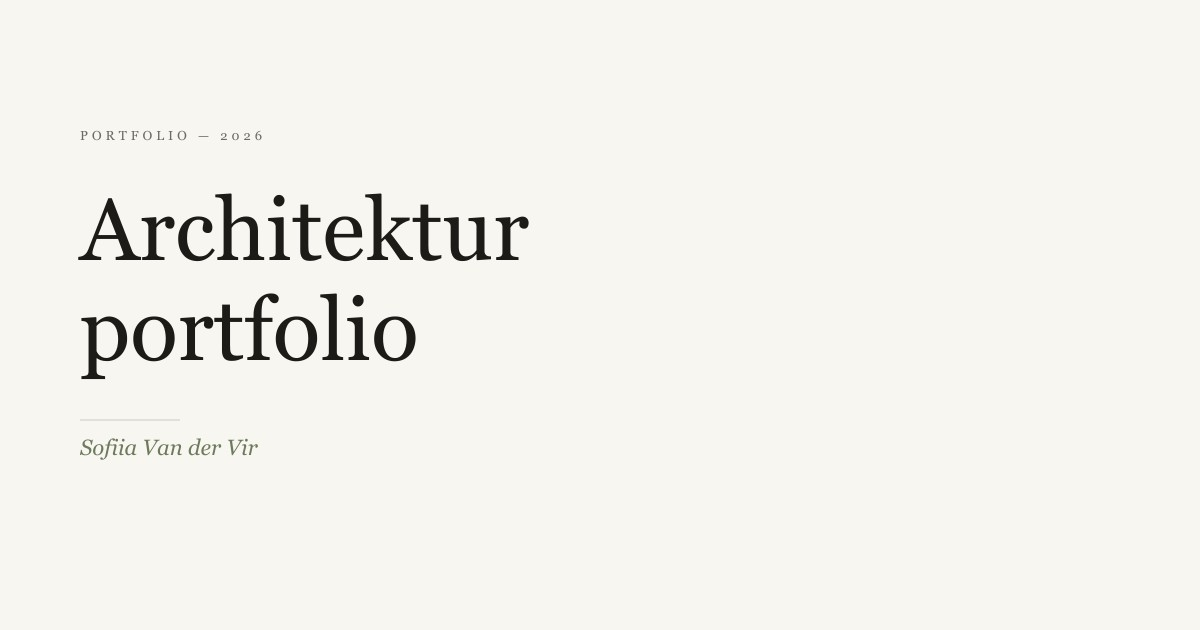
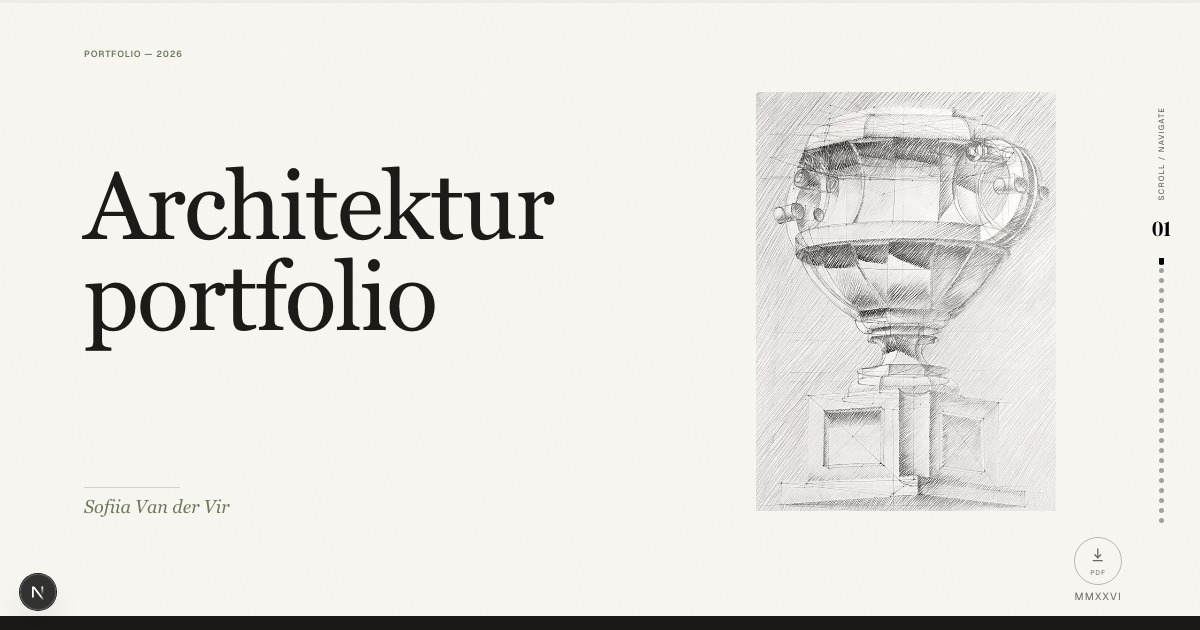
OG image: real cover screenshot 1200x630, fix metadataBase for Vercel

diff --git a/src/app/layout.tsx b/src/app/layout.tsx
@@ -13,7 +13,13 @@ const geistMono = Geist_Mono({
 });
 
 export const metadata: Metadata = {
-  metadataBase: new URL(process.env.VERCEL_URL ? `https://${process.env.VERCEL_URL}` : "http://localhost:3003"),
+  metadataBase: new URL(
+    process.env.VERCEL_PROJECT_PRODUCTION_URL
+      ? `https://${process.env.VERCEL_PROJECT_PRODUCTION_URL}`
+      : process.env.VERCEL_URL
+        ? `https://${process.env.VERCEL_URL}`
+        : "http://localhost:3003"
+  ),
   title: "Sofiia Van der Vir — Architektur Portfolio 2026",
   description: "Architekturportfolio von Sofiia Van der Vir — Frauentherapiezentrum Lüssow, Stadtbad Krefeld, Wohnungsbau Stolberg.",
   openGraph: {
